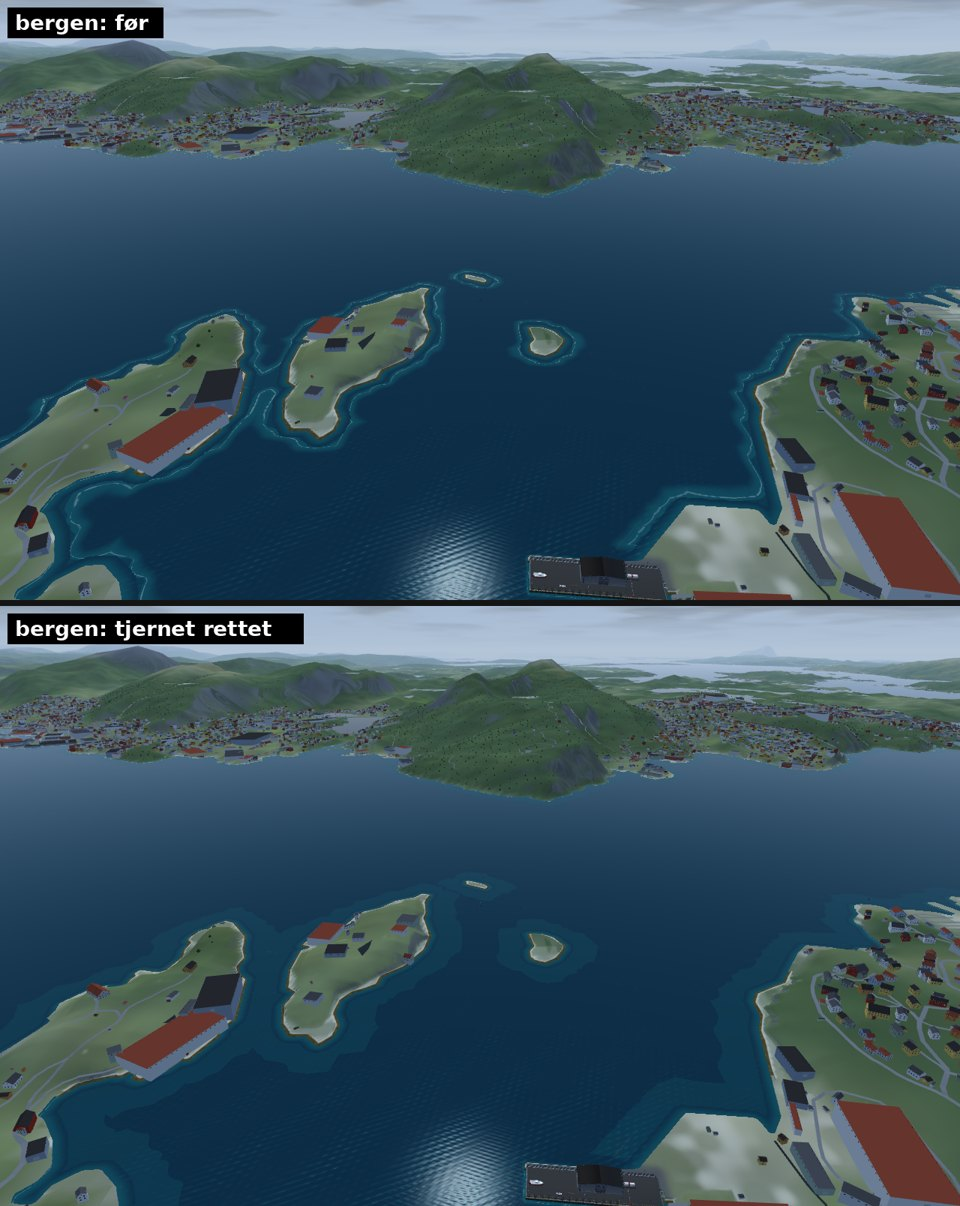
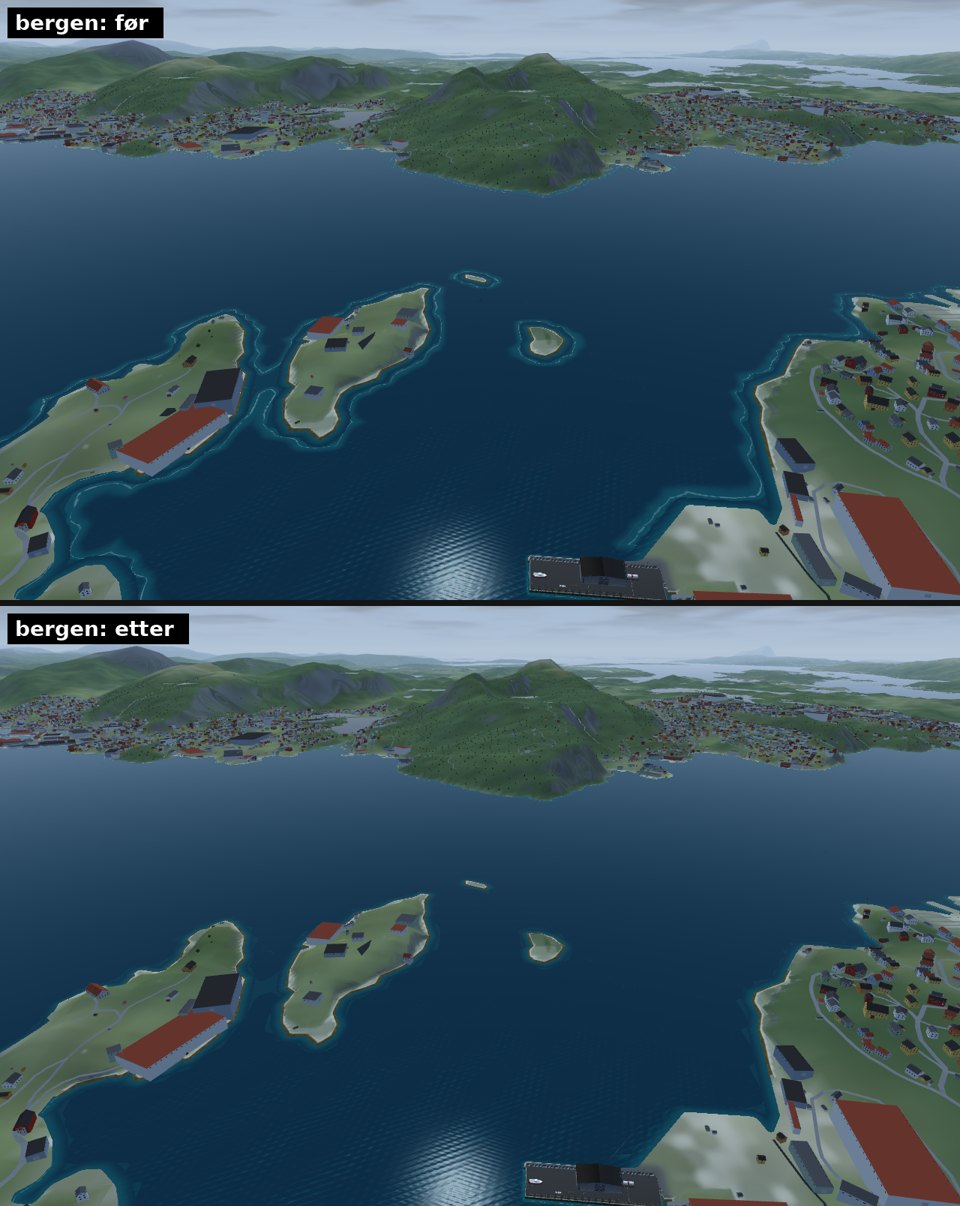
G2: a river's area split down to 12 m so it lies on the ground
Claude-Session: https://claude.ai/code/session_013BxXiByJL97ZdBfrhEuWyj

diff --git a/src/js/view3d/17b-inland-water.js b/src/js/view3d/17b-inland-water.js
@@ -51,8 +51,18 @@
       // a pond under 400 m2 is a few corners after the 4 m simplification, a dark plate rather than water (Bergen 28.10.2026): left out
       if (!a.kind){ let ar = 0; for (let i = 0; i < a.ix.length; i += 3){ const p = a.ix[i] * 2, q = a.ix[i + 1] * 2, r = a.ix[i + 2] * 2; ar += Math.abs((a.v[q] - a.v[p]) * (a.v[r + 1] - a.v[p + 1]) - (a.v[r] - a.v[p]) * (a.v[q + 1] - a.v[p + 1])) / 2; } if (ar < 400) continue; }
       if (!a.kind){ const hs = []; for (let j = 0; j < a.v.length; j += 2) hs.push(terrH(ox + a.v[j], oz + a.v[j + 1])); hs.sort((p, q) => p - q); lv = Math.min(lv, hs[Math.floor(hs.length * 0.1)] + 0.3); }
-      for (let i = 0; i < a.ix.length; i++){ const j = a.ix[i], x = a.v[j * 2], z = a.v[j * 2 + 1];
-        P.push(x, a.kind ? Math.max(terrH(ox + x, oz + z), 0.2) + 0.2 : lv, z); A.push(a.kind, 0, 0); }
+      if (!a.kind){ for (let i = 0; i < a.ix.length; i++){ const j = a.ix[i]; P.push(a.v[j * 2], lv, a.v[j * 2 + 1]); A.push(0, 0, 0); } continue; }
+      // a river's area lies on the ground: its triangles split at the longest edge down to 12 m, each point on the ground, so a big
+      // triangle on a slope does not cut through it (a dark wedge on an islet at Bergen, 28.10.2026)
+      const put = (x, z) => { P.push(x, Math.max(terrH(ox + x, oz + z), 0.2) + 0.2, z); A.push(1, 0, 0); };
+      const tri = (x0, z0, x1, z1, x2, z2, d) => {
+        const l0 = (x1 - x0) ** 2 + (z1 - z0) ** 2, l1 = (x2 - x1) ** 2 + (z2 - z1) ** 2, l2 = (x0 - x2) ** 2 + (z0 - z2) ** 2, m = Math.max(l0, l1, l2);
+        if (m <= 144 || d > 8){ put(x0, z0); put(x1, z1); put(x2, z2); return; }
+        if (m === l0){ const mx = (x0 + x1) / 2, mz = (z0 + z1) / 2; tri(x0, z0, mx, mz, x2, z2, d + 1); tri(mx, mz, x1, z1, x2, z2, d + 1); }
+        else if (m === l1){ const mx = (x1 + x2) / 2, mz = (z1 + z2) / 2; tri(x0, z0, x1, z1, mx, mz, d + 1); tri(x0, z0, mx, mz, x2, z2, d + 1); }
+        else { const mx = (x2 + x0) / 2, mz = (z2 + z0) / 2; tri(x0, z0, x1, z1, mx, mz, d + 1); tri(mx, mz, x1, z1, x2, z2, d + 1); }
+      };
+      for (let i = 0; i < a.ix.length; i += 3){ const p = a.ix[i] * 2, q = a.ix[i + 1] * 2, r = a.ix[i + 2] * 2; tri(a.v[p], a.v[p + 1], a.v[q], a.v[q + 1], a.v[r], a.v[r + 1], 0); }
     }
     return {tx, ty, o:[ox, oz], D, mesh:P.length ? Object.assign(waterMesh(P, A), {o:[ox, oz]}) : null, near:null, nearAt:null};
   }
